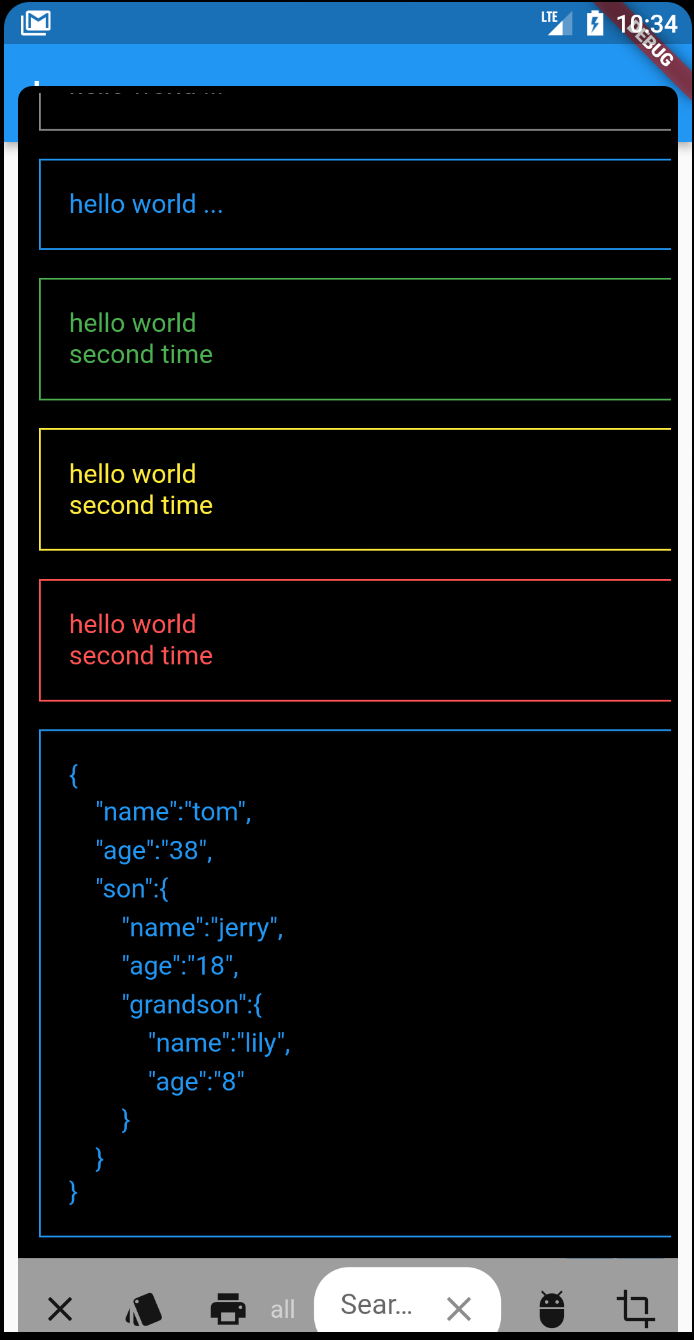
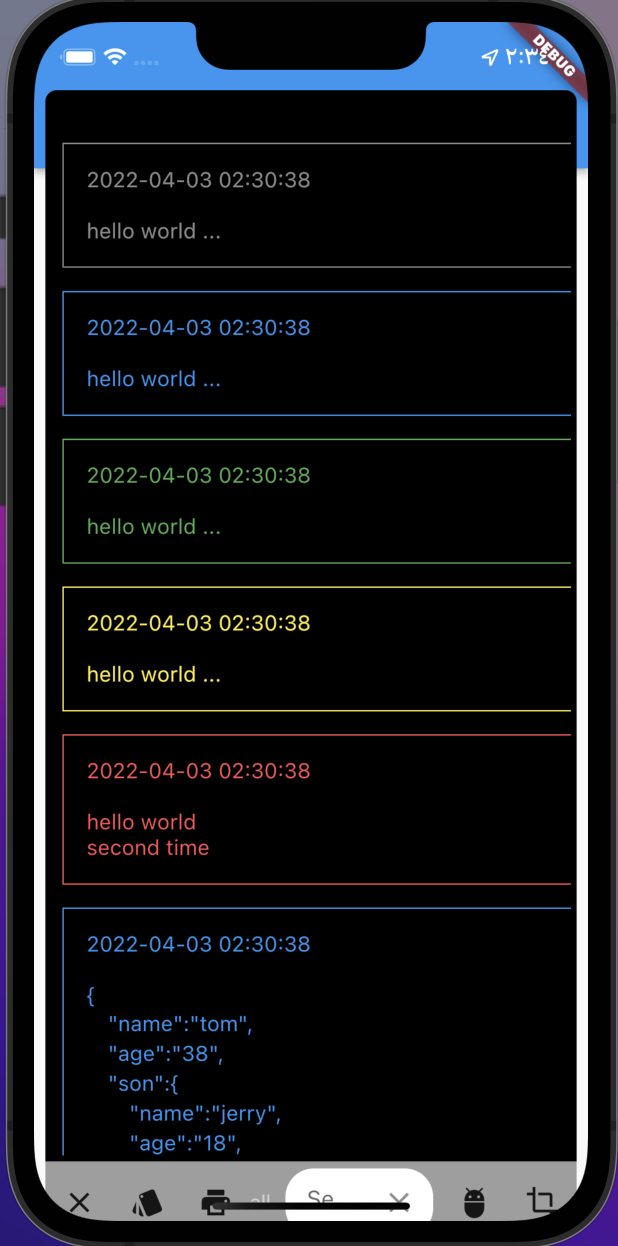
add time to phone logger

Changed region(s): [[0.0, 0.0, 1.0, 1.0]]

diff --git a/lib/log_text.dart b/lib/log_text.dart
@@ -47,7 +47,7 @@ class _LogTextState extends State<LogText> {
         width: 1,
       )),
       child: SelectableText(
-        log,
+        '${widget.logMode.time}\n\n' + log,
         style: _logStyle,
         onTap: _handleTextClick,
       ),
